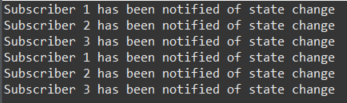
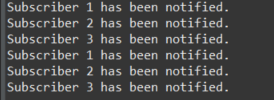
Finished Unit10Lab3

diff --git a/CTY/src/unit10/lab3/TestPattern.java b/CTY/src/unit10/lab3/TestPattern.java
@@ -5,22 +5,23 @@ public class TestPattern
 	public static void main( String [] args )
 	{
 		// Create Publisher & Subscriber objects
-		MySubscriber aSubscriber = new MySubscriber();
-		MySubscriber bSubscriber = new MySubscriber();
-		MySubscriber cSubscriber = new MySubscriber();
-		MySubscriber dSubscriber = new MySubscriber();
-		MyPublisher aPublisher = new MyPublisher( 6 );
+		MySubscriber aSubscriber = new MySubscriber(1);
+		MySubscriber bSubscriber = new MySubscriber(2);
+		MySubscriber cSubscriber = new MySubscriber(3);
+
+		MyPublisher aPublisher = new MyPublisher(3);
 
 		// Register a Subscriber
 		aPublisher.register( aSubscriber );
 		aPublisher.register( bSubscriber );
 		aPublisher.register( cSubscriber );
-		aPublisher.register( dSubscriber );
 
 		// Increment Publisher object to cause state changes
 		aPublisher.increment();
 		aPublisher.increment();
 		aPublisher.increment();
 		aPublisher.increment();
+				
+		
 	}
 }

diff --git a/CTY/src/unit10/lab3/Publisher.java b/CTY/src/unit10/lab3/Publisher.java
@@ -1,6 +1,6 @@
 package unit10.lab3;
 
-public class Publisher 
+public class Publisher
 {
 	private Subscriber [] subscriberList;   // An array stores subscribers
 	private int maximumSubscribers;   // Maximum number of subscribers
@@ -26,15 +26,9 @@ public class Publisher
 	public void notifySubscribers()
 	{
 		// Iterate through the subscriber array & invoke update() methods
-		if(nextIndex < 3)
-		{
-			for ( int i = 0; i < nextIndex; i++ )
-				subscriberList[ i ].update(i + 1);
-		}
-		else
-		{
-			for(int i = 0; i < 3; i++)
-				subscriberList[ i ].update(i + 1);
-		}
+		for ( int i = 0; i < nextIndex; i++ )
+			subscriberList[ i ].update();
 	}
+
+
 }

diff --git a/CTY/src/unit10/lab3/MySubscriber.java b/CTY/src/unit10/lab3/MySubscriber.java
@@ -2,8 +2,16 @@ package unit10.lab3;
 
 public class MySubscriber extends Subscriber
 {
-	public void update(int i)
+	int subscriberInstance;
+	
+	public MySubscriber(int subscriberInstance)
 	{
-		System.out.println( "Subscriber " + i + " has been notified of state change" );
+		this.subscriberInstance = subscriberInstance;
 	}
-}
+
+	public void update()
+	{
+		System.out.println( "Subscriber " + subscriberInstance + " has been notified." );
+	} 
+}	
+

diff --git a/CTY/src/unit10/lab3/Subscriber.java b/CTY/src/unit10/lab3/Subscriber.java
@@ -2,7 +2,7 @@ package unit10.lab3;
 
 public class Subscriber
 {
-	public void update(int i)
+	public void update()
 	{
 	}
 }
